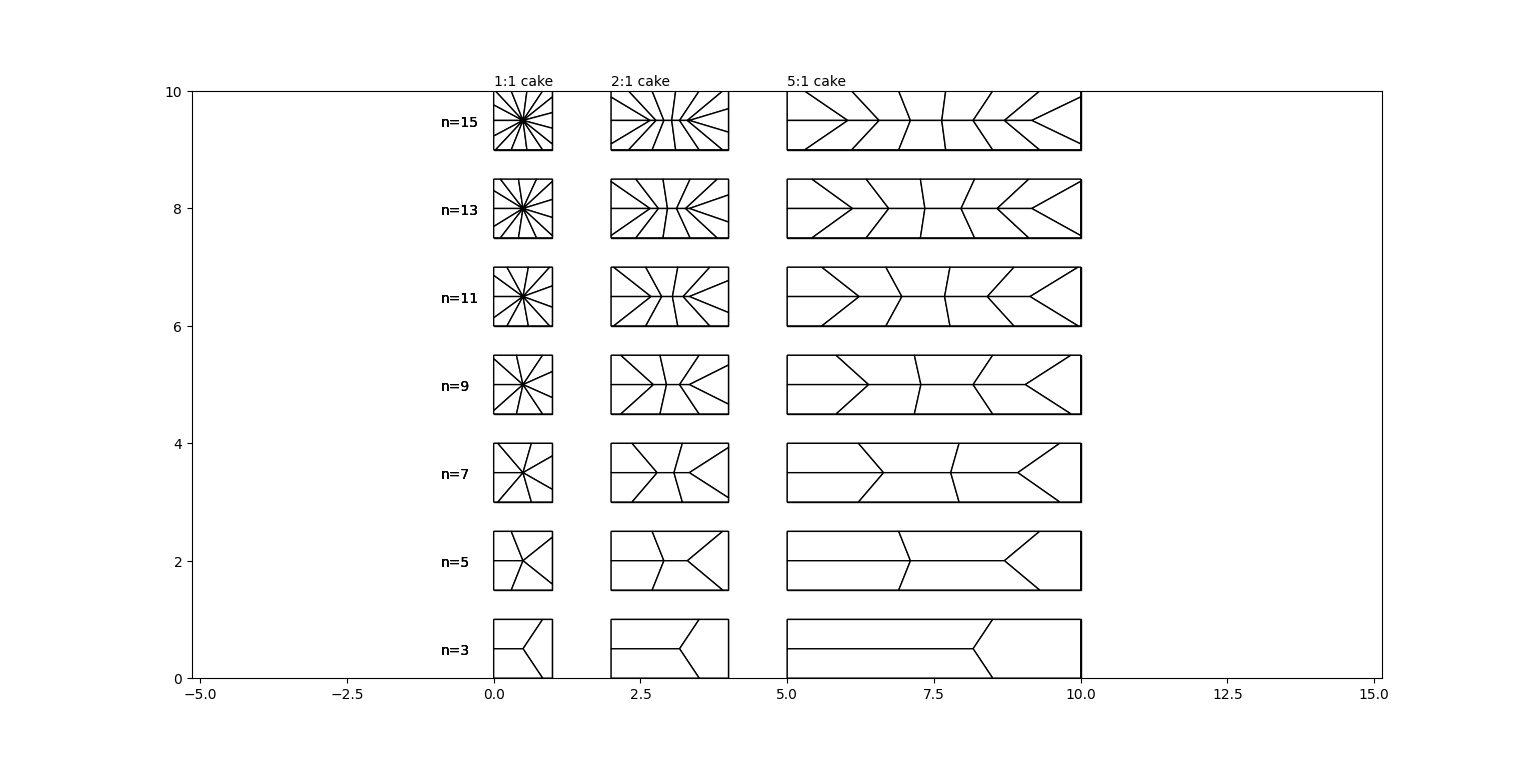
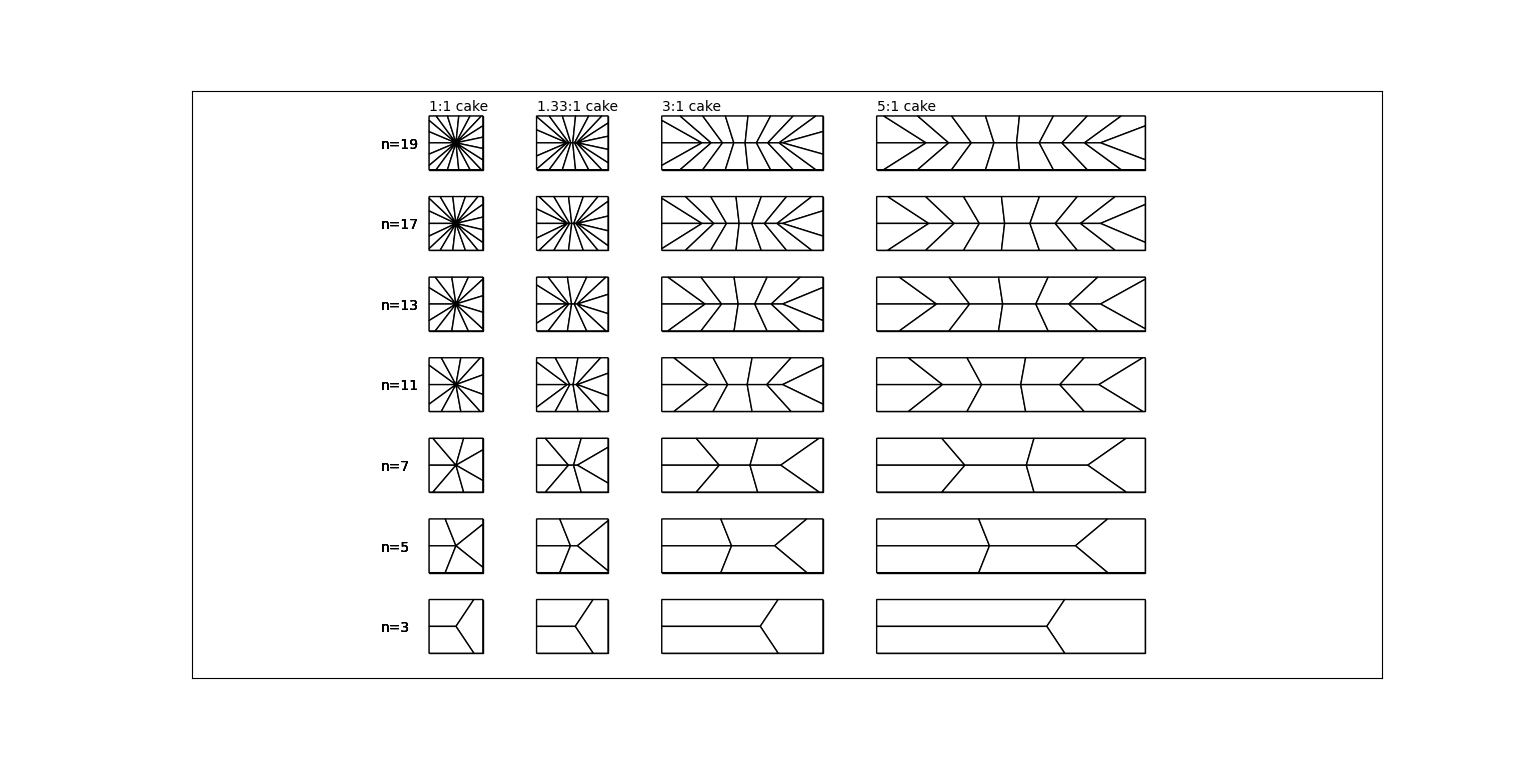
Changed plotting settings

diff --git a/main.py b/main.py
@@ -2,24 +2,27 @@ from cake_drawer import CakeDrawer
 from cake import Cake
 
 if __name__ == '__main__':
+    odd_primes = [3, 5, 7, 11, 13, 17, 19, 23, 29, 31, 37, 41, 43, 47]
     num_of_cakes = 7
     cake_drawer = CakeDrawer()
     cakes: list[list[Cake]] = [[]] * num_of_cakes
     for i in range(num_of_cakes):
         cakes[i] = [
             Cake(1, 1, [0, 1.5 * i]),
-            Cake(2, 1, [2, 1.5 * i]),
-            Cake(5, 1, [5, 1.5 * i])
+            Cake(1.33, 1, [2, 1.5 * i]),
+            Cake(3, 1, [4.33, 1.5 * i]),
+            Cake(5, 1, [8.33, 1.5 * i])
         ]
     for i in range(num_of_cakes):
         for j in range(len(cakes[0])):
-            number_of_slices = 3 + i * 2
+            number_of_slices = odd_primes[i]
             cakes[i][j].slice(number_of_slices)
             cake_drawer.plot(cakes[i][j].get_vertices())
             cake_drawer.plot_multiple(cakes[i][j].get_slice_vertices())
             cake_drawer.add_text(-0.9, (1.5 * i + 0.4), f'n={number_of_slices}')
     cake_drawer.add_text(0, 10.1, "1:1 cake")
-    cake_drawer.add_text(2, 10.1, "2:1 cake")
-    cake_drawer.add_text(5, 10.1, "5:1 cake")
-    cake_drawer.set_scale(0, 10, 0, 10)
+    cake_drawer.add_text(2, 10.1, "1.33:1 cake")
+    cake_drawer.add_text(4.33, 10.1, "3:1 cake")
+    cake_drawer.add_text(8.33, 10.1, "5:1 cake")
+    cake_drawer.set_scale(0, 10, 0, 12.5)
     cake_drawer.show_plot()

diff --git a/cake_drawer.py b/cake_drawer.py
@@ -20,9 +20,9 @@ class CakeDrawer:
 
     @staticmethod
     def set_scale(x_min: float, x_max: float, y_min: float, y_max: float) -> None:
-        matplotlib.pyplot.axis('equal')
         matplotlib.pyplot.ylim([x_min, x_max])
         matplotlib.pyplot.ylim([y_min, y_max])
+        matplotlib.pyplot.axis('equal')
 
     @staticmethod
     def add_text(x: float, y: float, text: str) -> None:
@@ -30,4 +30,6 @@ class CakeDrawer:
 
     @staticmethod
     def show_plot() -> None:
+        matplotlib.pyplot.xticks([])
+        matplotlib.pyplot.yticks([])
         matplotlib.pyplot.show()
